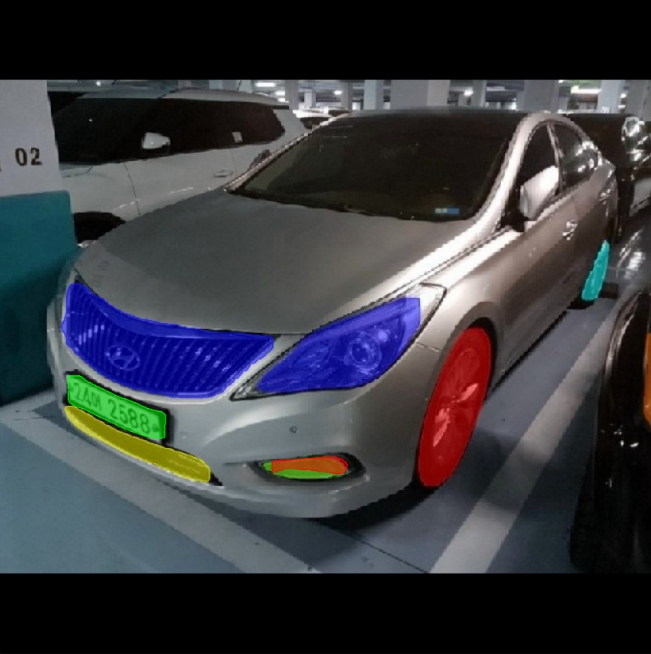
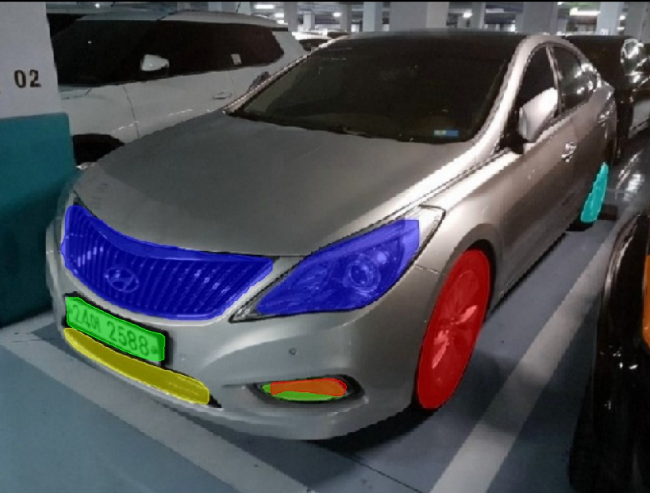
Fix: css for portfolio image

diff --git a/_includes/page__hero.html b/_includes/page__hero.html
@@ -64,7 +64,8 @@
       {% endif %}
     </div>
   {% else %}
-    <img src="{{ img_path }}" alt="{{ image_description }}" class="page__hero-image">
+  <div class="page__hero-wrapper"> <img src="{{ img_path }}" alt="{{ image_description }}" class="page__hero-image"> </div>
+    <!-- <img src="{{ img_path }}" alt="{{ image_description }}" class="page__hero-image"> -->
   {% endif %}
   {% if page.header.caption %}
     <span class="page__hero-caption">{{ page.header.caption | markdownify | remove: "<p>" | remove: "</p>" }}</span>

diff --git a/_sass/minimal-mistakes/_page.scss b/_sass/minimal-mistakes/_page.scss
@@ -214,7 +214,15 @@ body {
   }
 }
 
+.page__hero-wrapper {
+  width: 100%;
+  height: 0px;
+  overflow: hidden;
+  padding-bottom: 30%;
+}
+
 .page__hero-image {
+  position: relative;
   width: 100%;
   height: auto;
   -ms-interpolation-mode: bicubic;

diff --git a/_portfolio/DeepBlock.md b/_portfolio/DeepBlock.md
@@ -10,7 +10,7 @@ sidebar:
   - title: "Task"
     text: "Support Deep learning code for deep block site. Provide Deep block server for running deep learning code, providing API, uploading/downloading dataset."
   - title: "Stack"
-    text: "Tensorflow, Keras, Docker, nodejs, python, AWS"
+    text: "Tensorflow, Keras, Docker, nodejs, postgresql, redis, python, AWS"
 gallery:
   - url: /assets/images/deepblock/st_result1.jpg
     image_path: assets/images/deepblock/st_result1.jpg

diff --git a/_portfolio/BookGo.md b/_portfolio/BookGo.md
@@ -2,8 +2,8 @@
 title: "BookGo"
 excerpt: "Selling used major book online"
 header:
-  image: /assets/images/bookGo.jpg
-  teaser: assets/images/bookGo.jpg
+  image: /assets/images/bookGoTeaser.png
+  teaser: assets/images/bookGoTeaser.png
 sidebar:
   - title: "Role"
     text: "Front-End & Back-End Developer"
